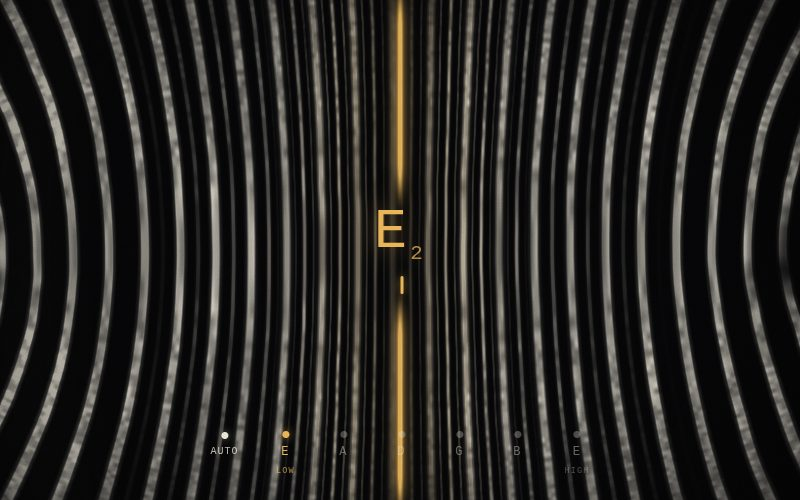
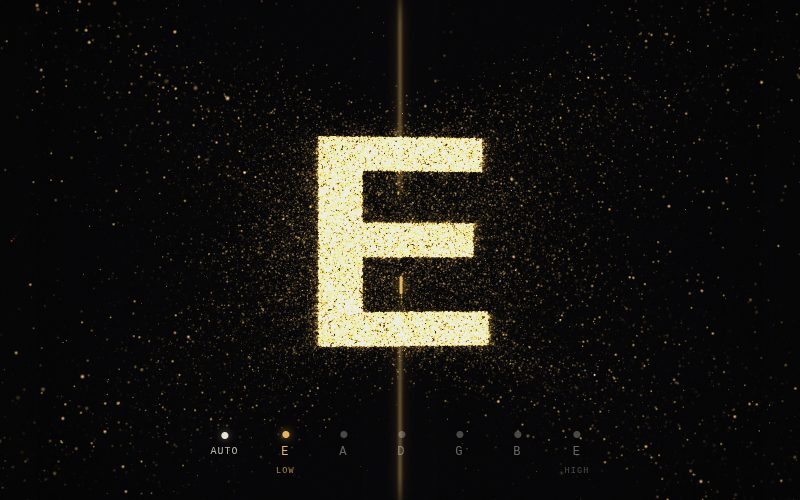
うなり: PARTICLE モードを既定に、サムネイルを金の文字に更新 (#152)
- 既定の表示モードを PARTICLE に(?mode=field で二源干渉を指定可能。
  float FBO 非対応環境は自動で FIELD)
- サムネイルレシピをライブ fakesource のロック区間撮影に変更
  (freeze は sim が止まり文字が出ないため)。トップページのサムネは
  ロックした金の「E」に
- V1 static エラー0 / runtime 両モード全PASS(--motion --longrun 込み)

diff --git a/fable5_unari.html b/fable5_unari.html
@@ -15,9 +15,10 @@
     左右へ一閃する。HUD はほぼ文字レス(上下中央の音名1文字+動く針+弦ドット。
     固定目盛なし)。設定パネルは右下の「⋯」の奥に畳んであり、既定では現れない。
 
-    表示モードは2つ(右上の FIELD / PARTICLE で切替、?mode=particle でも指定可):
-    - FIELD    … 上記の二源干渉の縞(既定)
-    - PARTICLE … 65,536 粒の GPU パーティクル。ずれが大きいほど curl ノイズで
+    表示モードは2つ(右上の FIELD / PARTICLE で切替。既定は PARTICLE、
+    ?mode=field で干渉場を指定可):
+    - FIELD    … 上記の二源干渉の縞
+    - PARTICLE … 65,536 粒の GPU パーティクル(既定)。ずれが大きいほど curl ノイズで
       発散し、音程が近づくほど粒が1粒ずつ音名グリフの目標点へリクルートされ、
       文字が塵の中から組み上がっていく。ロック(±2cent×0.6s)で全粒が参加し
       完全な文字が金で完成する。弾弦バーストは粒を弾き飛ばし、シャープ/フラット
@@ -381,8 +382,8 @@
         manualString: -1, // -1 = AUTO
         pauseAnim: false,
         debugView: 0,
-        // 0 = FIELD(二源干渉) / 1 = PARTICLE(粒が音名の文字を形成)
-        mode: QUERY.get("mode") === "particle" ? 1 : 0,
+        // 0 = FIELD(二源干渉) / 1 = PARTICLE(粒が音名の文字を形成)。既定は PARTICLE
+        mode: QUERY.get("mode") === "field" ? 0 : 1,
       });
 
       const reducedMotion = window.matchMedia("(prefers-reduced-motion: reduce)");
@@ -1188,6 +1189,7 @@
         ptsVao = gl.createVertexArray(); // 属性なし(gl_VertexID 描画)
         if (!sceneTex) makeSceneTarget();
       }
+      if (!PARTICLE_OK) state.mode = 0; // float FBO 非対応環境は FIELD へ
       buildModeBar();
       hud.classList.toggle("letterMode", state.mode === 1);
 
